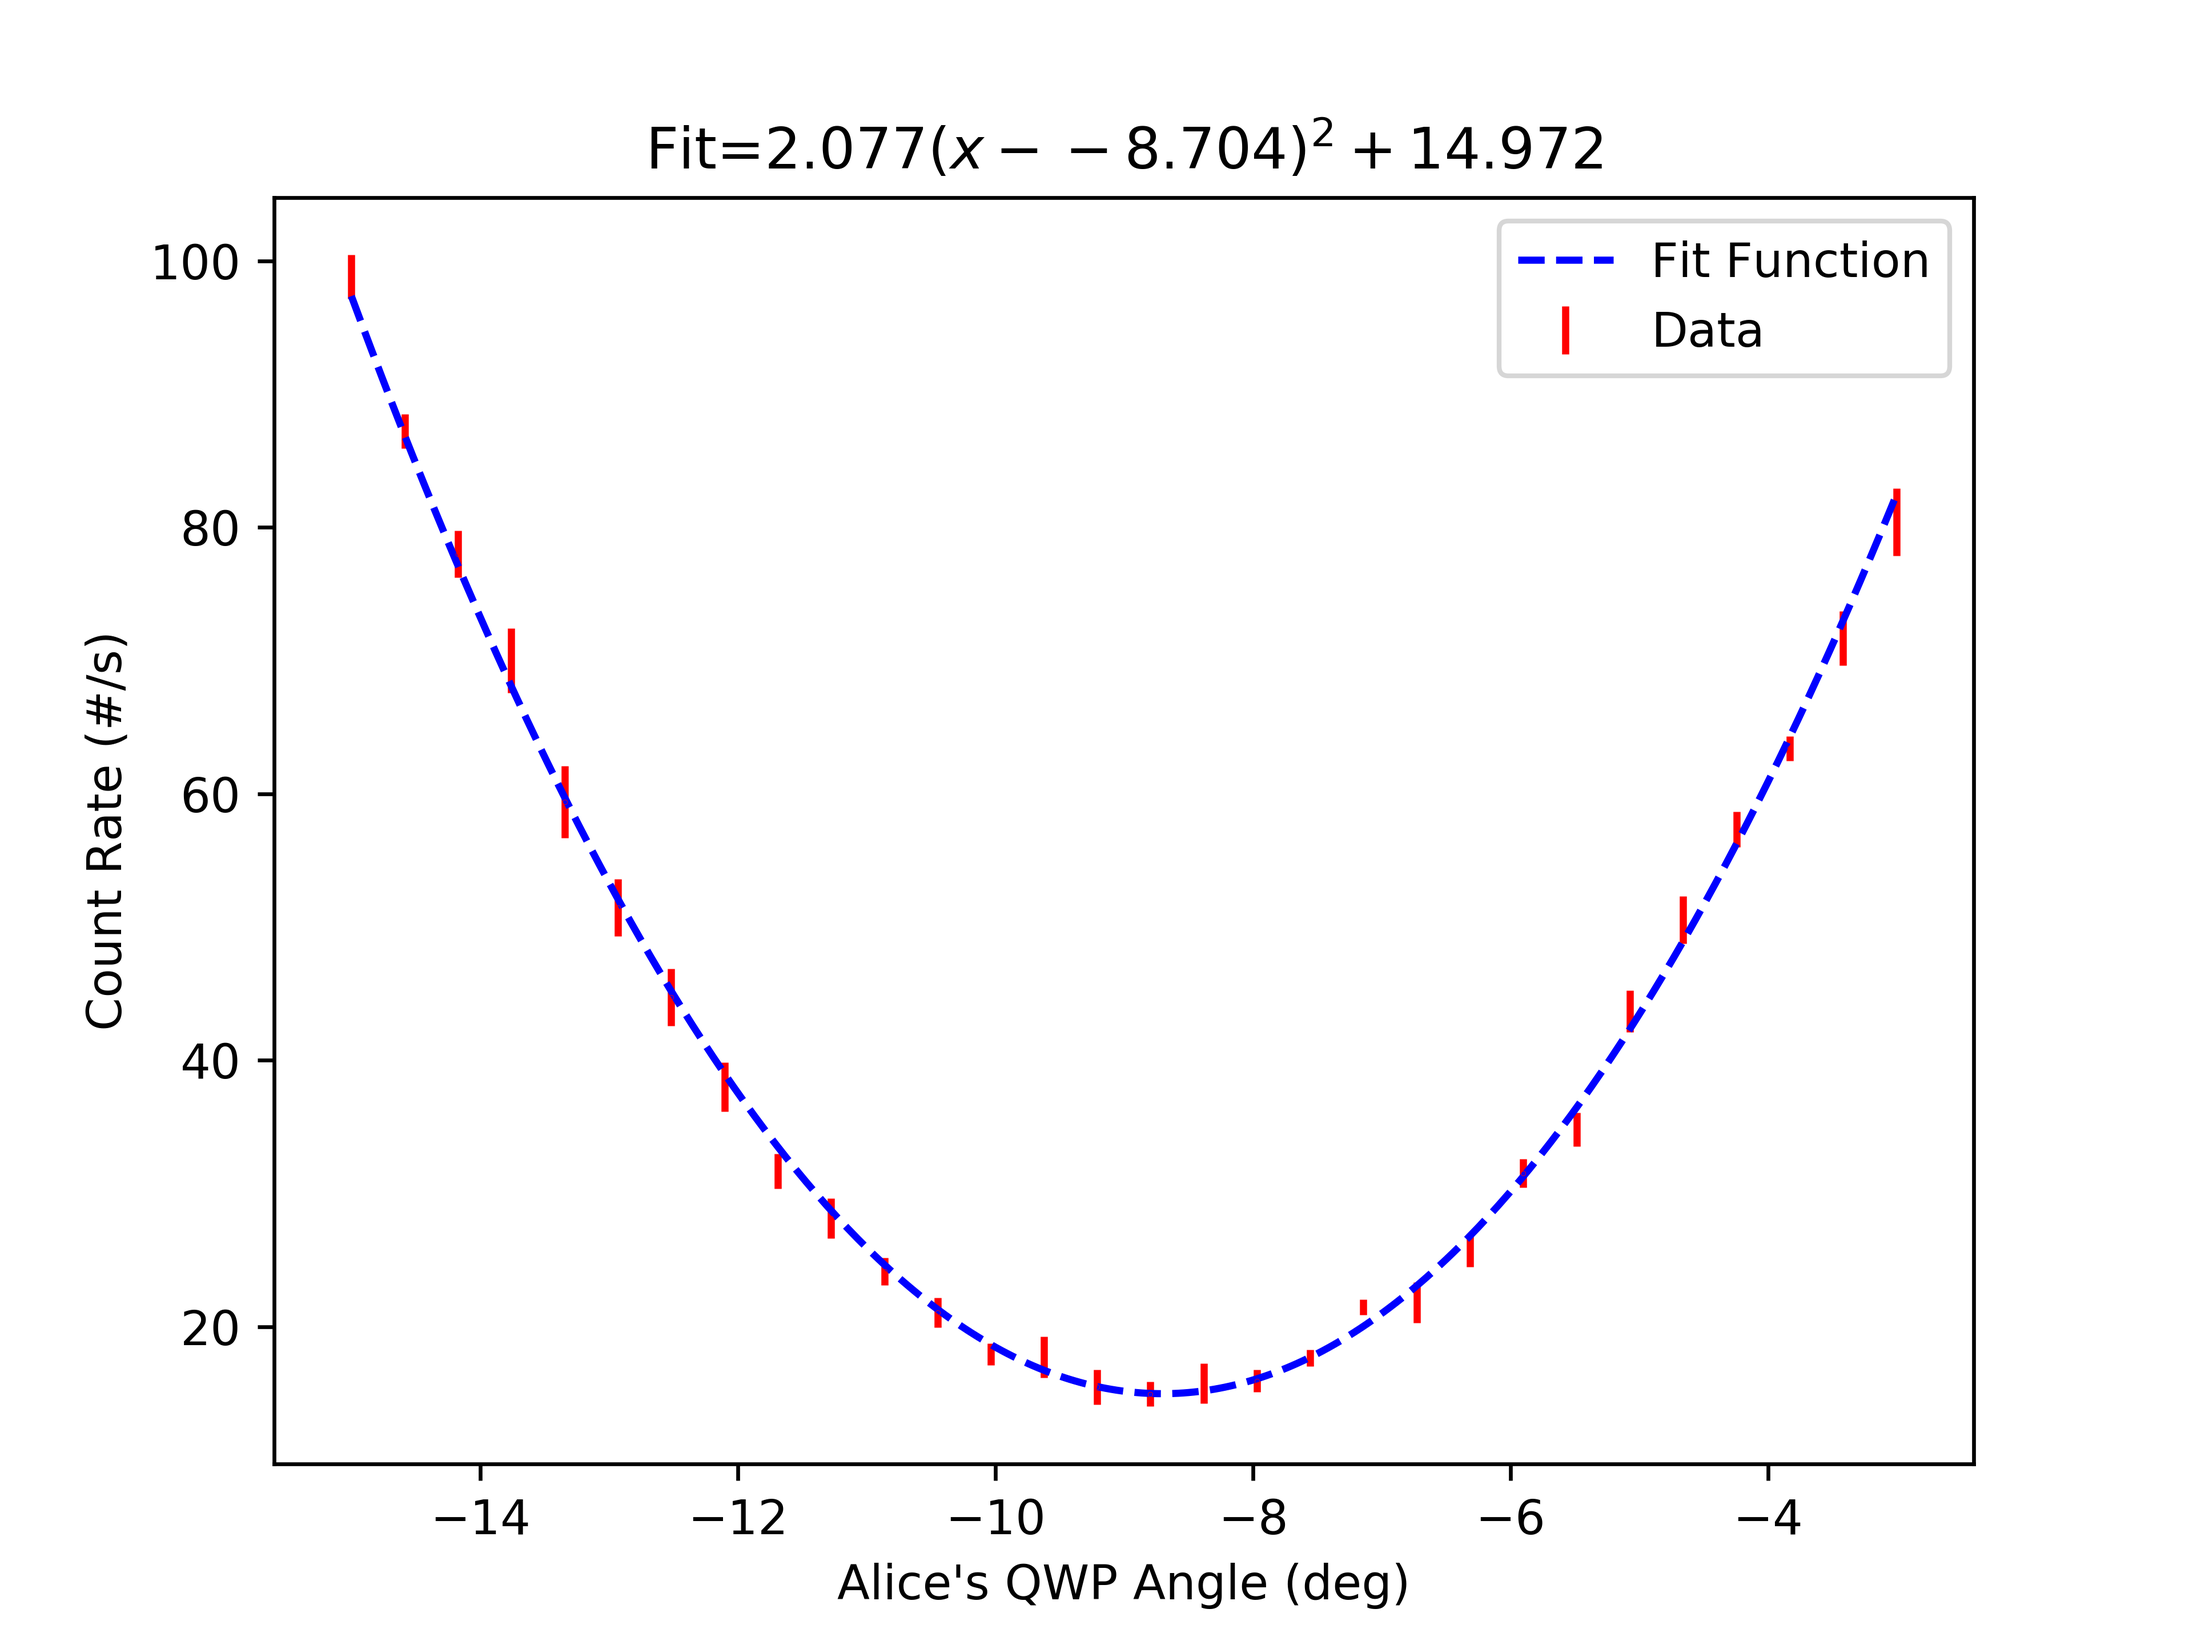
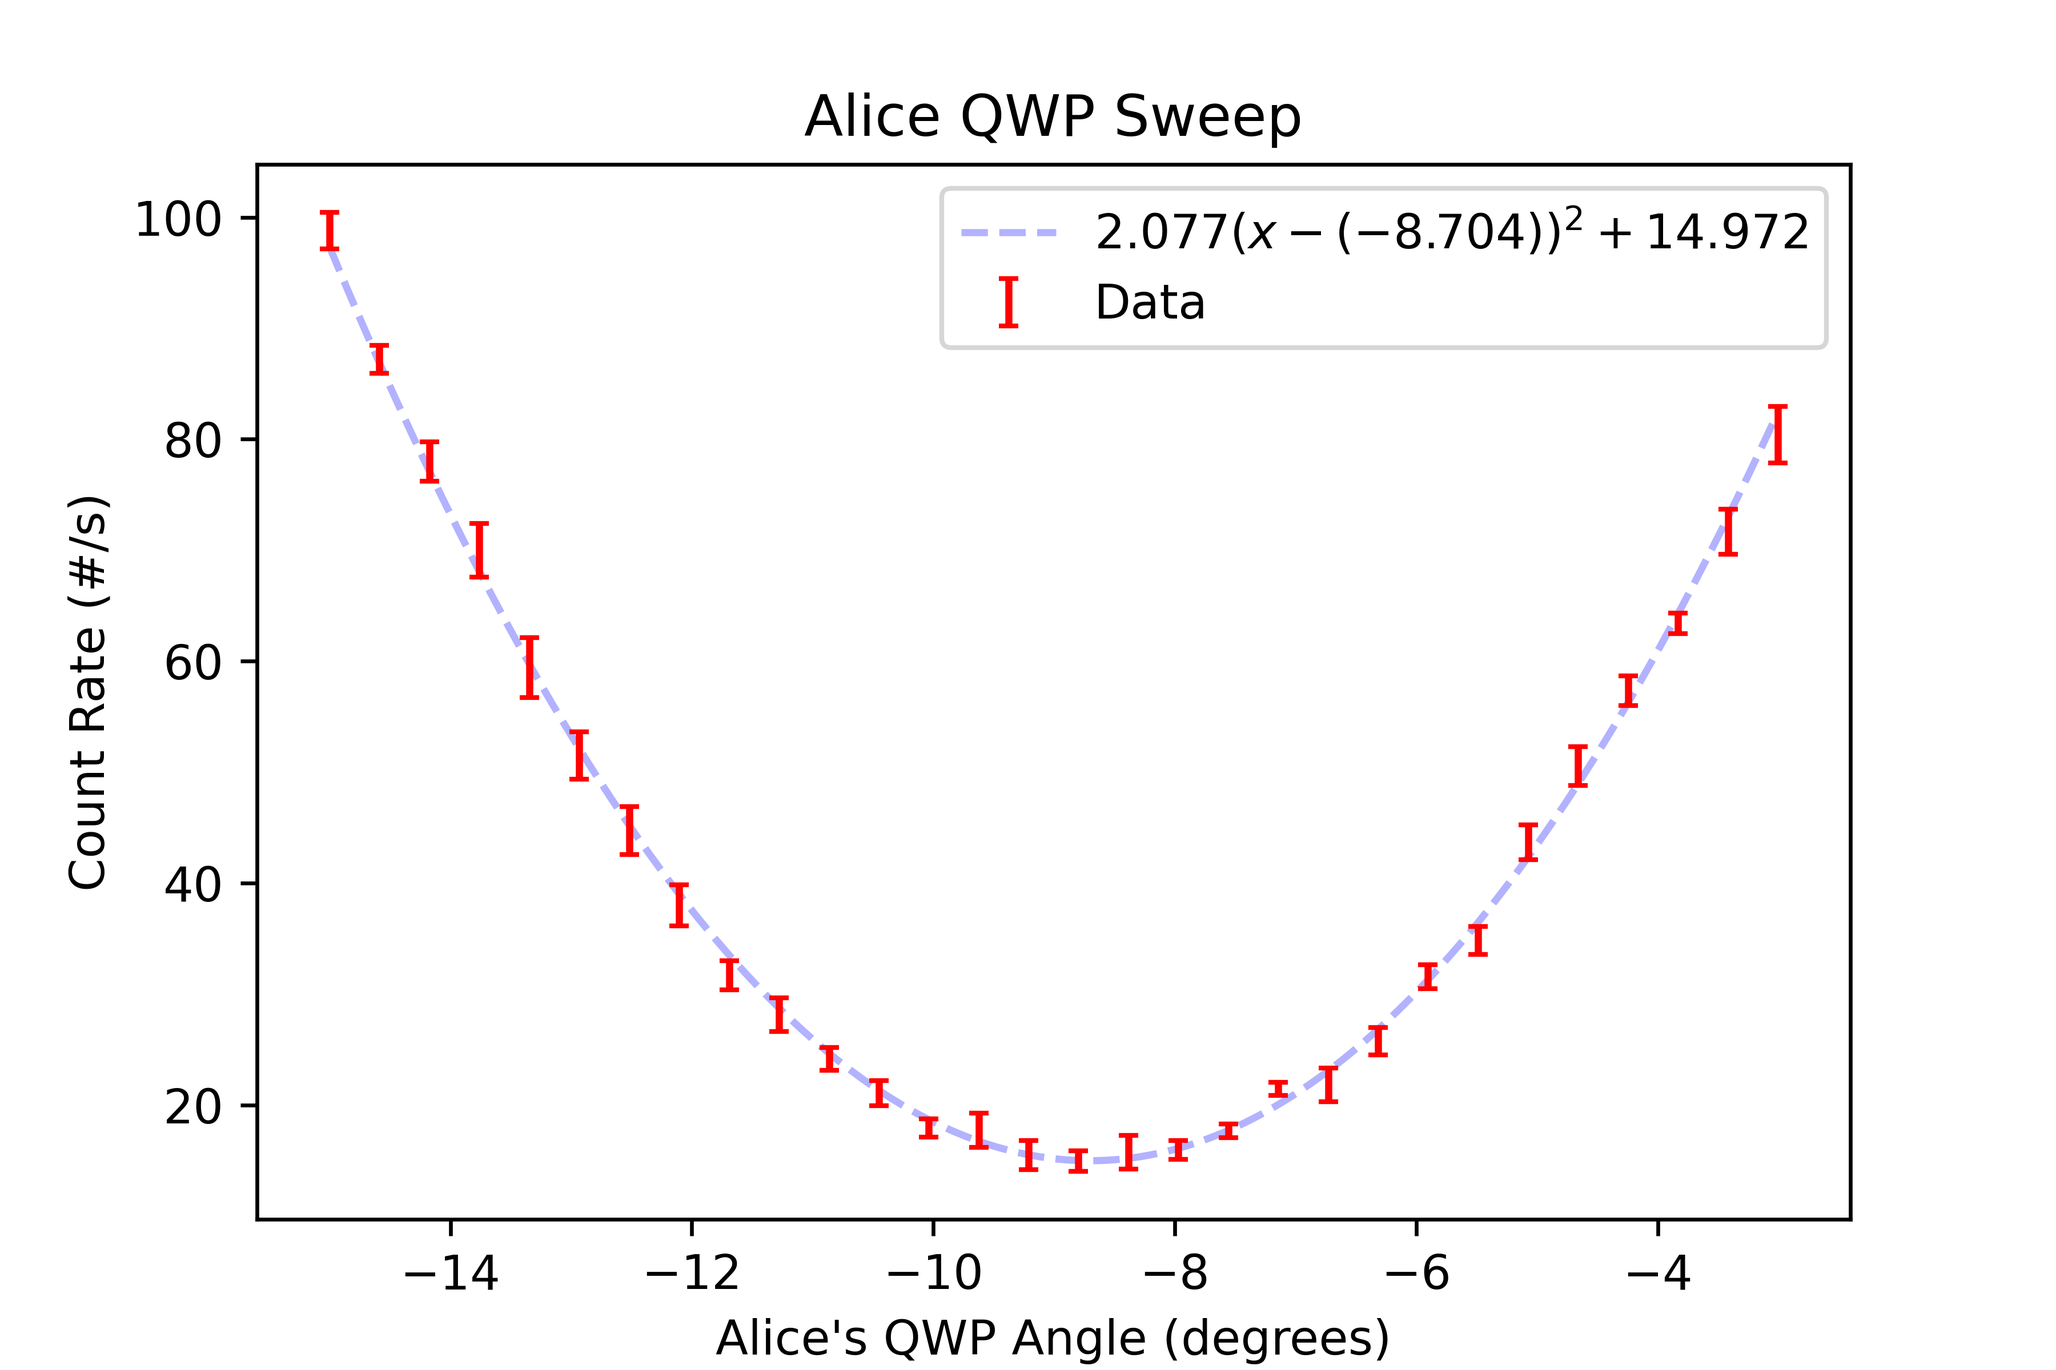
updated plotting for AQWP data to be prettier

diff --git a/calibration/AQWP/AQWP_fit.py b/calibration/AQWP/AQWP_fit.py
@@ -29,28 +29,25 @@ if __name__ == '__main__':
     m.shutdown()
     '''
 
-    df = Manager.load_data(f'AQWP_sweep{TRIAL}.csv')
+    df = Manager.load_data('AQWP_sweep1.csv')
     
     # fit the function
-    params = analysis.fit('quadratic', df['A_QWP'], df['C4'])
+    params = analysis.fit(fit_func, df['A_QWP'], df['C4'], p0=[0, 90.1518, 2423, -46], bounds=[[-180, -180, -inf, -inf], [180, 180, inf, inf]], maxfev=1000)
+    # params = analysis.fit('quadratic', df['A_QWP'], df['C4'])
 
     # print fitted parameters
     print(f'Fit parameters = {params}')
 
-    # setup plot
-    fig = plt.figure(figsize=(6,4))
-    ax = fig.add_subplot(1,1,1)
-    
     # plotting
-    analysis.plot_func('quadratic', params, df['A_QWP'], color='b', linestyle='dashed', label=f'${params[1].n:.3f}(x-({params[0].n:.3f}))^2 + {params[2].n:.3f}$', alpha=0.3)
+    # analysis.plot_func('quadratic', params, df['A_QWP'], color='b', linestyle='dashed', label=f'Fit Function', alpha=0.3)
+    fig = plt.figure(figsize=(9,6))
+    ax = fig.add_subplot(1,1,1)
+    analysis.plot_func(fit_func, params, df['A_QWP'], color='b', linestyle='dashed', label=f'${params[2].n:.3f}[\\cos^2({params[1].n:.3f})+\\cos(2\\cdot{params[1].n:.3f})\\sin^2(2(\\theta{params[0].n:.3f}))/2]+{params[3].n:.3f}$', alpha=0.3)
     analysis.plot_errorbar(df['A_QWP'], df['C4'], ms=0.1, fmt='ro', capsize=2, label='Data')
-    
-    # labels and such
-    plt.title(f'Alice QWP Sweep')
     plt.xlabel('Alice\'s QWP Angle (degrees)')
     plt.ylabel('Count Rate (#/s)')
     plt.legend()
-
-    # save and show
-    plt.savefig(f'AQWP_sweep{TRIAL}.png', dpi=600)
+    # plt.title(f'Fit=${params[1].n:.3f}(x-{params[0].n:.3f})^2 + {params[2].n:.3f}$')
+    plt.title(f'Alice QWP Sweep')
+    plt.savefig(f'AQWP_fit.png', dpi=600)
     plt.show()
